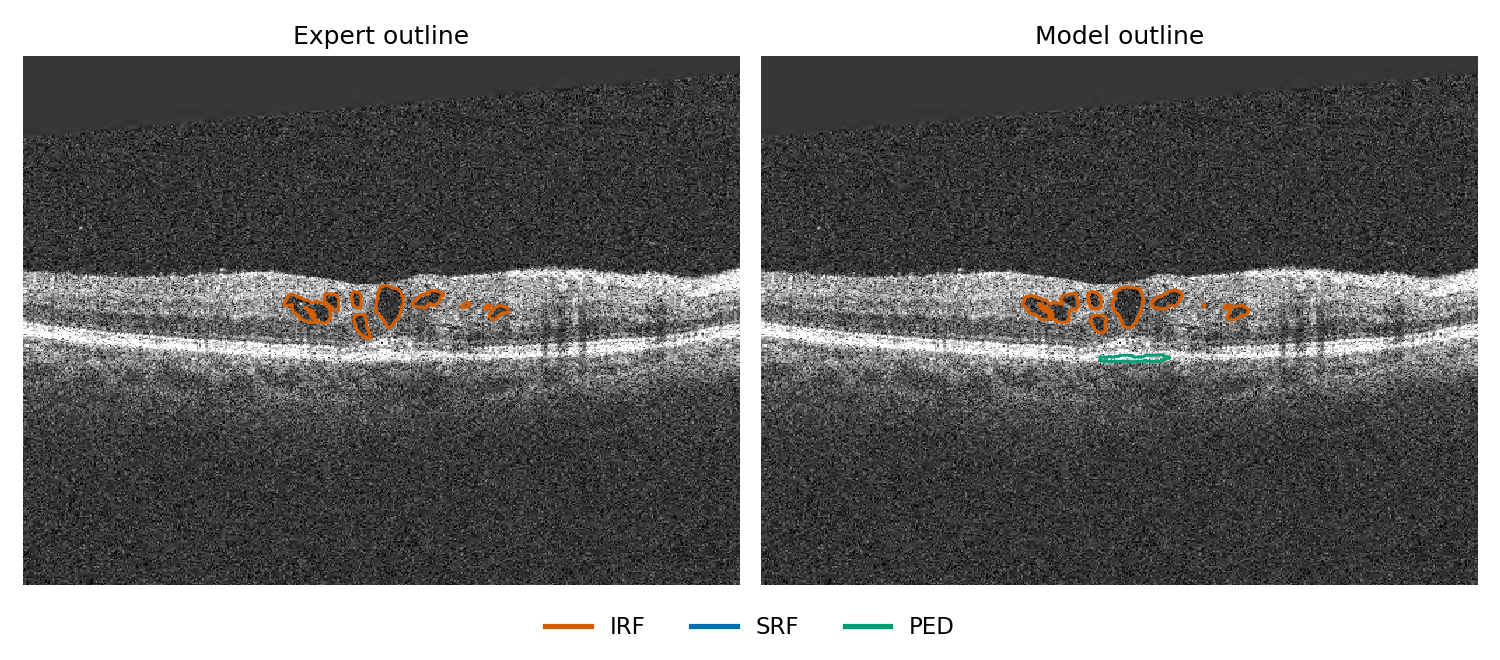
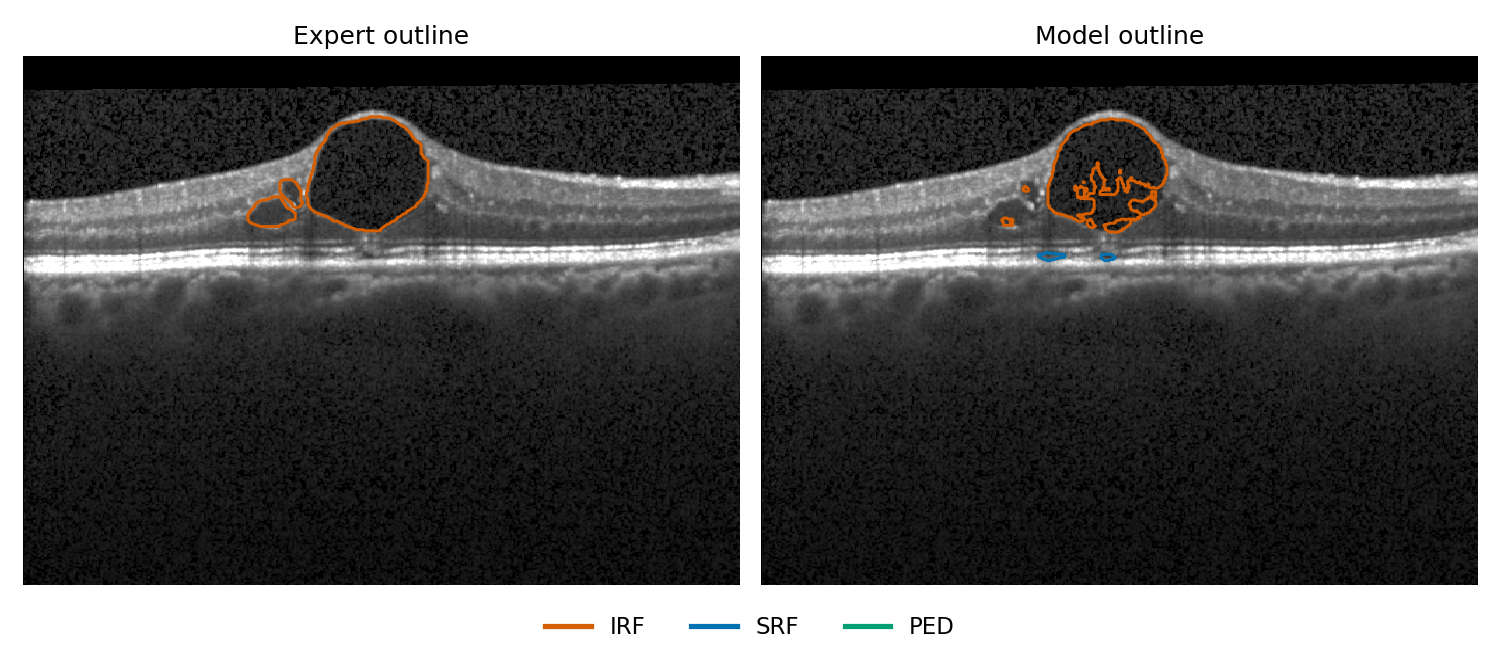
docs(07): record the 21.9 run and approvals; regenerated B-scans in figures
The author ran the 21.9 regeneration: three buckets unlocked under one
run, counts now 6, 4 and 4, the gate passed for all six, no metadata
chunks. All six images approved; the author's withdrawn decline of the
best image and its reason are recorded. The regenerated images and
captions replace the withdrawn ones in docs/figures, with the author's
caption for the best image checked against the corrected record. The
worst image is byte-identical to the earlier one.

diff --git a/docs/13_change_control_log.md b/docs/13_change_control_log.md
@@ -191,3 +191,4 @@ silently (CLAUDE.md rule 6).
 | 2026-10-24 | **The report-tables hook written (SRS-099, TC-145), and TC-145's acceptance criterion amended before its test was written.** `scripts/check_report_tables_hook.py` runs when `docs/10`, `docs/12` or the README is staged. It checks the staged text against the records and blocks on any difference. When the records are absent, it lets the commit through and prints a banner saying the check did not run, why, and which files went unchecked. `.pre-commit-config.yaml` declares it at the `commit-msg` stage with `always_run`, no filenames and `verbose: true`. CLAUDE.md records `eval/report.py` as done. `docs/09`: 107 written, 107 executed, 24 unwritten; the page counts follow. | `scripts/check_report_tables_hook.py`, `.pre-commit-config.yaml`, `tests/test_report_tables_hook.py`; `docs/07` TC-145; `docs/09`; CLAUDE.md §7 | **Three things found while building it, each handled rather than assumed.** (1) **This repository installs only the `commit-msg` hook type** (`.git/hooks` holds `commit-msg` alone), so a `pre-commit`-stage hook would never have run. At `commit-msg`, pre-commit passes only the message file, so the "declared on exactly those files" of TC-145's first wording would have skipped the hook every time; the hook selects the staged files itself. (2) **pre-commit hides a passing hook's output**, so the records-absent warning, which exits 0, would have been invisible, which is a silent skip; hence `verbose: true`, asserted by TC-145. (3) **A `language: system` hook runs the first `python` on PATH**, here an environment without this project. The hook is standard-library-only until a watched document is staged, then re-runs itself with the repository's `.venv` interpreter, and warns if there is none. **Shown blocking a real commit's staged change:** with the README's "1 of 9" staged as "2 of 9", the hook run with the PATH interpreter re-ran itself under `.venv`, reported "README: statement: not found: in 1 of 9 comparisons" and exited 1. The README was then restored, identical to `HEAD`. **Open decision for the author:** with no interpreter able to import the project, the hook warns and lets the commit through, as for absent records. Whether that case should block instead was not specified | Anurag Yadav |
 | 2026-10-24 | **SRS-099 amended: with the records present and no interpreter able to import the project, the hook blocks.** It warns and allows only when the records are absent. The probe for records on disk uses the standard library only, since that is the case where the project cannot be imported: any `*/corrected/evaluation_*.json` under `artifacts/runs`. TC-145 gains the blocking case and the probe's own test, and its registered wording follows. | SRS-099; TC-145; `scripts/check_report_tables_hook.py`, `tests/test_report_tables_hook.py` | **The author's decision**, answering the open question of the previous entry. **The probe is deliberately looser than `report.records_present`:** any record at all means this machine is one that should run the check | Anurag Yadav |
 | 2026-10-24 | **`docs/07` §21.9 added, before any run: the illustrative B-scans regenerated from the corrected records; SRS-093 amended; TC-146 registered and written.** The rule, the gate, the rendering and the review are unchanged. The records are the corrected held-out records of §17.11, and only those. The unlock reason must cite §17.11 and §21. Output goes to a new `artifacts/illustrations_corrected/`, and the script refuses a directory that holds files. `scripts/09_illustrative_bscans.py` gains those three checks. The run itself is the author's. `docs/09`: 132 registered, 108 written, 108 executed, 24 unwritten; the page counts follow. | `docs/07` §21.9, TC-146; SRS-093; `scripts/09_illustrative_bscans.py`, `tests/test_illustrations.py`; `docs/09` | **The author's instruction:** same rule, gate against the corrected records, unlock reason citing §17.11 and §21, illustration only, tested on arguments only and never run here. **The selection was computed from the corrected records' numbers before §21.9 was written**, without opening any bucket or image. It spans all three held-out runs (Spectralis worst and best, Cirrus median and IRF false positive, Topcon SRF and PED false positives), so three buckets are opened, not two as in §21.7. Only roles and runs were printed; identifiers stay in the local selection record. **Access counts read from the log first:** cirrus, spectralis and topcon `test` at 5, 3 and 3, to become 6, 4 and 4. **TC-134's CPU-refusal case now carries a valid reason**, so the device check remains what refuses it, rather than the new citation check | Anurag Yadav |
+| 2026-10-24 | **The §21.9 run recorded; all six images approved; the regenerated images and captions replace the withdrawn ones in `docs/figures`.** The author ran it: three buckets unlocked, 11:50–12:02 UTC, counts now 6, 4 and 4 as stated. The gate passed for all six, and no PNG carries a metadata chunk. `bscan_worst.png` is byte-identical to the §21.7 image; the other five changed. `docs/figures/illustrations.md` holds the generated captions, the author's caption for `bscan_best.png` (whole-scan IRF Dice 0.83, outlines about a quarter smaller, a small SRF false positive; checked against the corrected record: 0.8261, 37,860 against 50,701 voxels, HD95 0.035 mm, 561 SRF voxels), and the §21.8 sentence on `bscan_worst.png`. | `docs/07` §21.9; `docs/figures/bscan_*.png`, `docs/figures/illustrations.md` | **The author's decline of `bscan_best.png`, and its withdrawal, recorded as they happened.** The author first declined it as departing from the expert's outline and marking SRF not marked, and asked for another picture. Claude Code stopped, because §21.6 forbids replacing a declined image. The author withdrew the decline as resting on how the image looks, and kept the image with a caption addition. **The §21.8 sentence on the worst image is kept** because that image is unchanged byte for byte; the author may drop it. **Not yet done:** `docs/10` §7.4, the page and the README still show the images as withdrawn, pending the author's reassessment of the §7.4 qualitative observation | Anurag Yadav |

diff --git a/docs/figures/illustrations.md b/docs/figures/illustrations.md
@@ -1,10 +1,10 @@
-<!-- Generated by scripts/09_illustrative_bscans.py (docs/07 section 21) and copied from its captions file. Two sentences were added by the author after reviewing the images (docs/07 section 21.8): the second sentence of the bscan_worst.png caption and the second sentence of the bscan_best.png caption. Everything else is as generated. Do not edit by hand. -->
+<!-- Generated by scripts/09_illustrative_bscans.py (docs/07 section 21.9, from the corrected records) and copied from its captions file. Two passages are the author's: the first two sentences of the bscan_best.png caption, which replace the generated description, followed by a citation to the record added at the author's request (docs/07 section 21.9), and the second sentence of the bscan_worst.png caption, written for section 21.8 about an image the regeneration reproduced byte for byte. Everything else is as generated. Do not edit by hand. -->
 
 **bscan_worst.png**: The lowest-scoring held-out scan by mean Dice over the fluid types its expert outline contains, shown on its B-scan with the most expert-outlined fluid. The model marked no fluid on this B-scan, which was chosen as the slice with the most expert-marked fluid, so it shows a complete miss on that slice. Left, the expert's outline; right, the model's. Chosen by the rule pre-registered in `docs/07` §21, from the numbers alone, before any image was rendered.
 
 **bscan_median.png**: The median held-out scan by mean Dice over the fluid types its expert outline contains, shown on its B-scan with the most expert-outlined fluid. Left, the expert's outline; right, the model's. Chosen by the rule pre-registered in `docs/07` §21, from the numbers alone, before any image was rendered.
 
-**bscan_best.png**: The highest-scoring held-out scan by mean Dice over the fluid types its expert outline contains, shown on its B-scan with the most expert-outlined fluid. The ranking uses only the fluid types the expert marked; the model also predicted PED, which the expert did not mark, so even the best case shows the false-positive pattern. Left, the expert's outline; right, the model's. Chosen by the rule pre-registered in `docs/07` §21, from the numbers alone, before any image was rendered.
+**bscan_best.png**: The highest-scoring held-out scan (whole-scan IRF Dice 0.83), shown on its slice with the most expert-marked fluid. The model's IRF outlines are close to the expert's but about a quarter smaller overall, and it marks a small SRF region the expert did not. Whole-scan figures from the corrected evaluation record (`docs/08` §5i). Left, the expert's outline; right, the model's. Chosen by the rule pre-registered in `docs/07` §21, from the numbers alone, before any image was rendered.
 
 **bscan_fp_irf.png**: The largest false-positive case for IRF among the held-out scans: of the scans whose expert outline contains no IRF, the one in which the model marked the most IRF, shown on its B-scan with the most model-marked IRF. **This is the largest such case, not a typical one**; for typical sizes, see the predicted-voxel figure. Left, the expert's outline; right, the model's. Chosen by the rule pre-registered in `docs/07` §21, from the numbers alone, before any image was rendered.
 

diff --git a/docs/07_vv_protocol.md b/docs/07_vv_protocol.md
@@ -1750,3 +1750,35 @@ only**. Nothing measured in it is reported, and it is not an evaluation.
   The §7.4 qualitative observation of `docs/10` is reassessed against the new images, labelled
   qualitative.
 - **Launch.** By the author, from an interactive terminal (§17.8).
+
+**The run, recorded 2026-10-24.** Launched by the author. The three `test` buckets were opened
+under one run, each with an `Unlock` citing §21.9 and §17.11, approved by the author, at
+11:50:06, 11:59:36 and 12:02:14 UTC (cirrus, spectralis, topcon). The last file was written at
+17:39:28 local time, 19 min 22 s after the first unlock (measured, log and file times). Access
+counts after: cirrus 6, spectralis 4, topcon 4, exactly as stated above. **The gate passed for
+all six**, against the corrected records. The PNGs carry no metadata chunks (checked by reading
+their bytes; no image was opened in a Claude Code session, DMP-C12). **`bscan_worst.png` is byte
+for byte the image of §21.7**: the same scan, and on that slice the model marked nothing, so the
+inversion had nothing to move. The other five differ.
+
+**The author's review, outside any session.** All six **approved**. The author first declined
+`bscan_best.png`, because it departs from the expert's outline and marks SRF the expert did not,
+and asked for another scan in its place. **The author then withdrew the decline, as resting on
+how the image looks, which §21.6 does not allow**, and kept the image with a caption addition
+(below). No image was replaced and none was left out.
+
+**The author's caption for `bscan_best.png`**, replacing the generated description: *"The
+highest-scoring held-out scan (whole-scan IRF Dice 0.83), shown on its slice with the most
+expert-marked fluid. The model's IRF outlines are close to the expert's but about a quarter
+smaller overall, and it marks a small SRF region the expert did not."* It is followed by a
+citation to the corrected record, at the author's request, and by the generated tail. **The
+numbers are checked against the corrected record**, read without opening any image or bucket:
+IRF Dice 0.8261, expert 50,701 voxels and predicted 37,860, so the prediction is 25% smaller;
+IRF HD95 0.035 mm; SRF absent in the reference, with 561 predicted voxels; PED absent and none
+predicted. **Before settling the caption**, the author asked whether the mismatch on the slice
+shown was ordinary error or systematic displacement. The whole-volume HD95 argues against
+displacement. Per-slice figures were not computed: they need a further unlock, and the author
+declined to prepare one. An interim caption by the author, saying the slice was the hardest in
+the scan, was superseded before any commit; the records hold no slice-level score that could
+have checked it. The §21.8 sentence on `bscan_worst.png` is kept, because it describes an image
+reproduced byte for byte.
